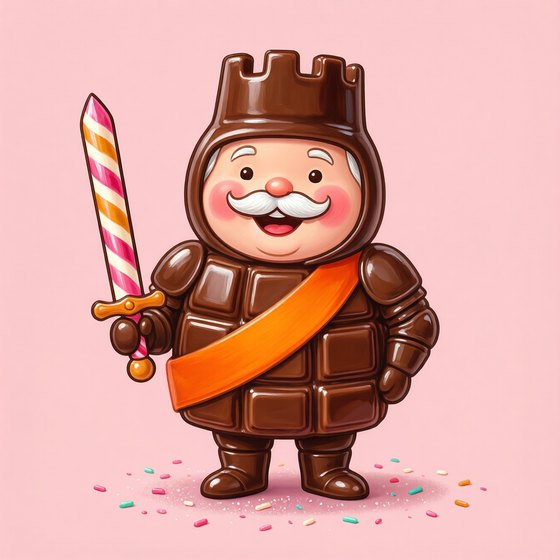
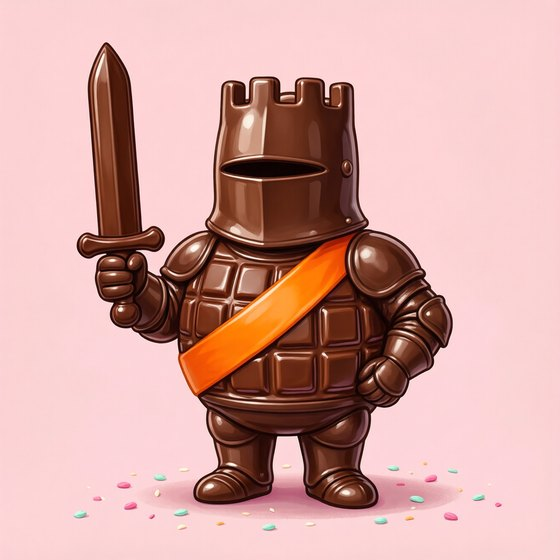
Sweetlands Imperium: a vegetable Queen Quiche and a faceless General Fudge
Quiche has tomato-red skin, vegetable armor, a lettuce cape and a cheese
sword on a plain background. Fudge's closed helmet hides his face, and his
sword is chocolate.

Changed region(s): [[0.1214, 0.0607, 0.8804, 0.9714], [0.1518, 0.85, 0.2429, 0.9107], [0.1214, 0.9107, 0.1518, 0.9411]]

diff --git a/docs/security-reviews/2026-11-04-266a85f-change.md b/docs/security-reviews/2026-11-04-266a85f-change.md
@@ -30,9 +30,9 @@ The images keep their names, so no code, route or data changed.
 ## Image licensing
 
 The new images were made with Qwen-Image-2512 (Apache 2.0) from text prompts
-alone, and are credited in ATTRIBUTIONS.md. Queen Quiche's portrait was redrawn
-after this review, one image file at the same name; the metadata check above was
-repeated on it.
+alone, and are credited in ATTRIBUTIONS.md. The Queen Quiche and General Fudge
+portraits were redrawn after this review, at the same names; the metadata check
+above was repeated on them.
 
 Still open: the images they replace remain in this repository's git history,
 and `docs/games/sweetlands-imperium/page09-milkshake.png` through
